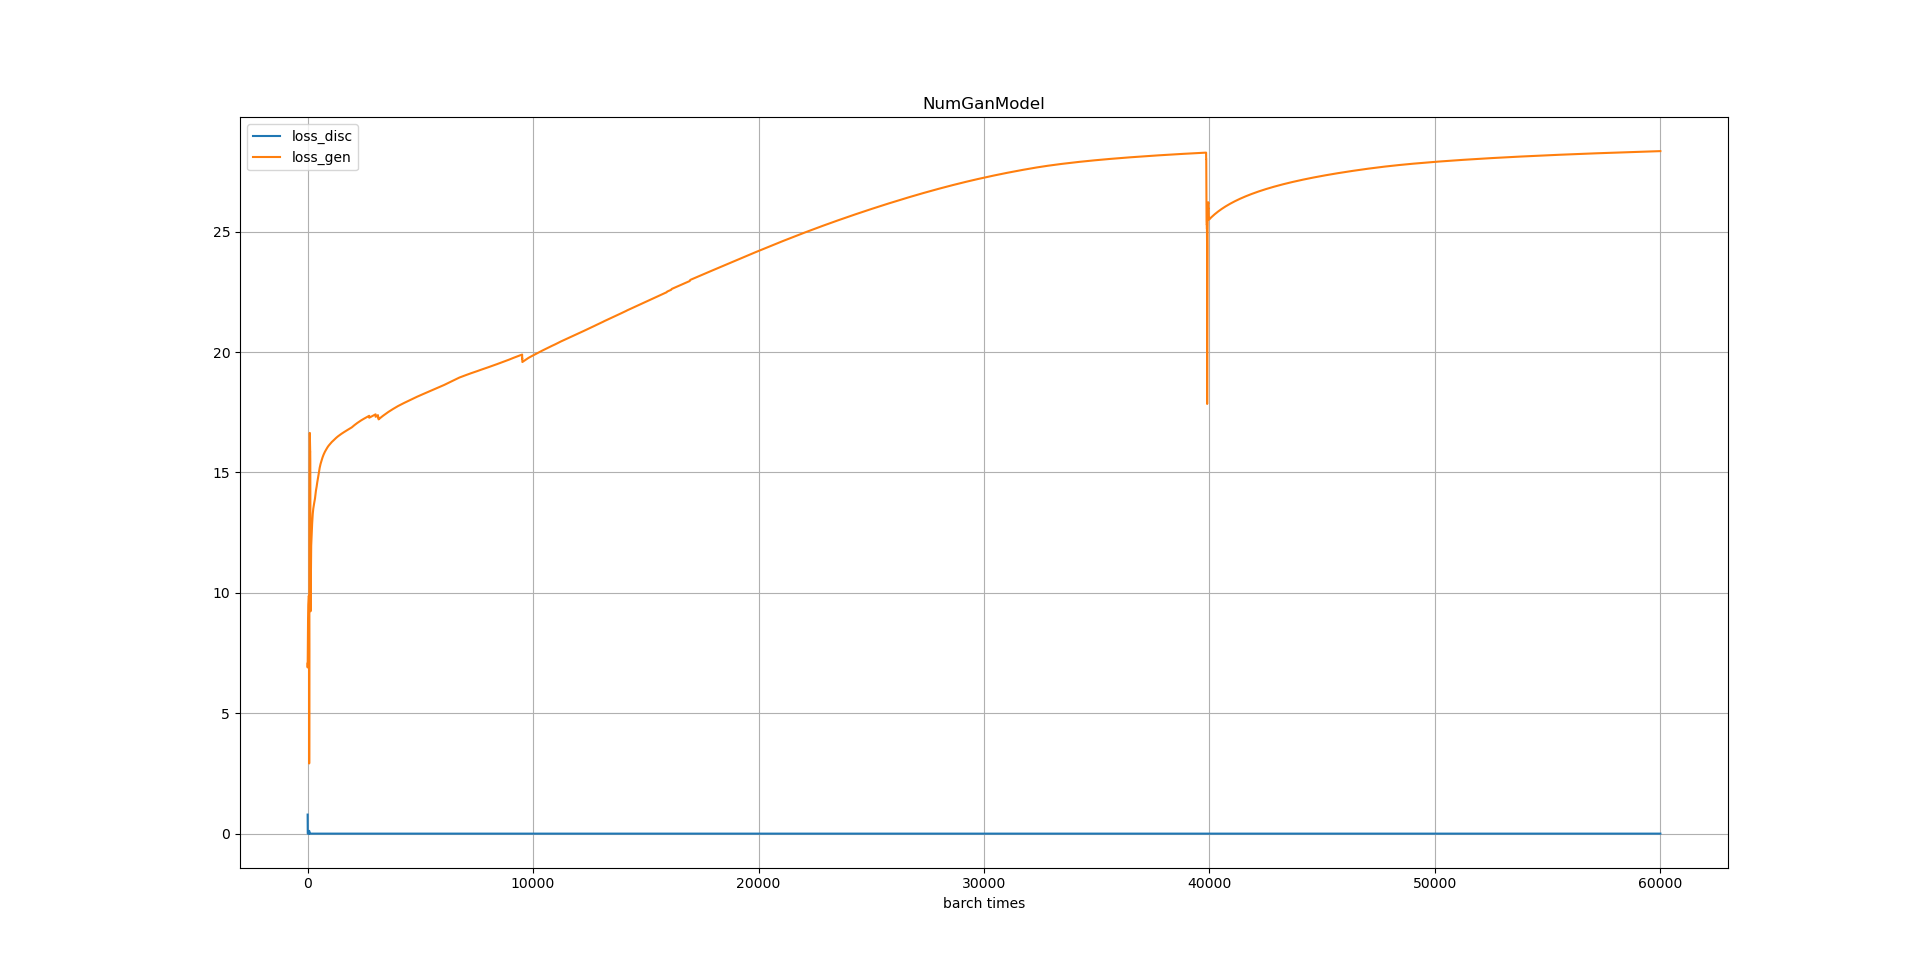
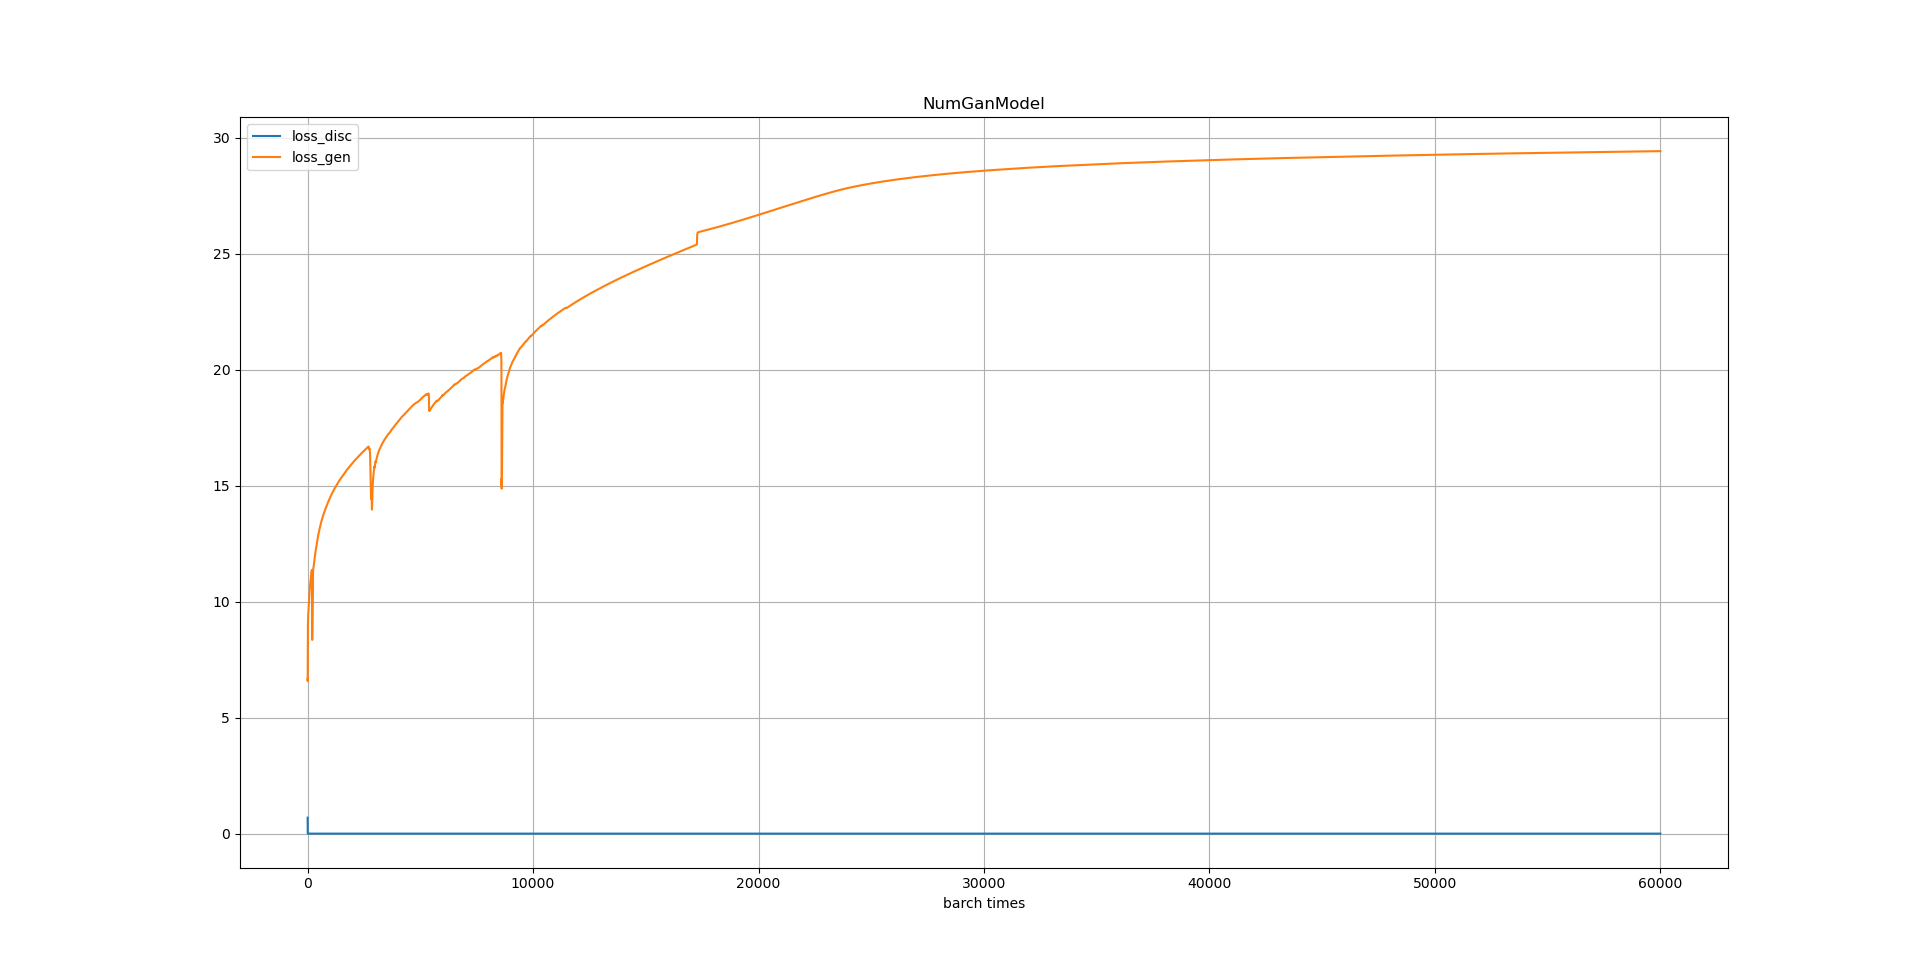
优化3

diff --git a/AI-Stu/03-GenerativeAdversarialNetwork/handwrite_number_gen1/NumGanModel3.py b/AI-Stu/03-GenerativeAdversarialNetwork/handwrite_number_gen1/NumGanModel3.py
@@ -1,0 +1,41 @@
+import torch
+
+from NumGanModel2 import NumGanModel2
+
+
+class NumGanModel3(NumGanModel2):
+
+    def TrainEpoch(self, train_iter):
+        self.DiscModel.train()
+        self.GenModel.train()
+        for imgs, tags in train_iter:
+            tags = tags.to(device='cuda', dtype=torch.float)
+            imgs = imgs.to(device='cuda', dtype=torch.float)
+            # 掺杂生成器数据
+            g_tag_seed = torch.randn(tags.size(0), 1).to(device='cuda', dtype=torch.float)
+            g_imgs = self.GenModel(g_tag_seed).detach()
+            g_imgs = g_imgs.view(g_imgs.size(0), 1, 28, 28)
+            g_tags = torch.full((g_tag_seed.size(0),), 0, dtype=torch.float, device='cuda')
+            tags_all = torch.cat((tags, g_tags), dim=0)
+            imgs_all = torch.cat((imgs, g_imgs), dim=0)
+            # 训练判别器
+            tags_hat = self.DiscModel(imgs_all).squeeze()
+            loss_disc = self.DiscLoss(tags_hat, tags_all)
+            self.DiscOptimiser.zero_grad()
+            loss_disc.backward()
+            self.DiscOptimiser.step()
+            # 训练生成器
+            g_trian_tag_seed = torch.randn(tags_all.size(0), 1).to(device='cuda', dtype=torch.float)
+            g_train_imgs = self.GenModel(g_trian_tag_seed)
+            # 使用生成器生成的图片欺骗鉴别器
+            # 如果g_train_tags全1说明欺骗成功（奖励）
+            # 如果g_train_tags全0说明欺骗失败（惩罚）
+            g_train_tags = self.DiscModel(g_train_imgs)
+            g_train_tags_std = torch.full((g_trian_tag_seed.size(0), 1), 1, dtype=torch.float).to(device='cuda',
+                                                                                                  dtype=torch.float)
+            # loss_gen越小，说明g_train_tags越接近全1，生成器越成功
+            loss_gen = self.DiscLoss(g_train_tags, g_train_tags_std)
+            self.GenOptimiser.zero_grad()
+            loss_gen.backward()
+            self.GenOptimiser.step()
+            self.record[len(self.record)] = [loss_disc.item(), loss_gen.item()]

diff --git a/AI-Stu/03-GenerativeAdversarialNetwork/handwrite_number_gen1/NumGanModelTrain1.py b/AI-Stu/03-GenerativeAdversarialNetwork/handwrite_number_gen1/NumGanModelTrain1.py
@@ -5,7 +5,7 @@ from torch.utils.data import DataLoader
 from NumDataSet import NumDataSet
 import torchvision.transforms as transforms
 
-from NumGanModel2 import NumGanModel2
+from NumGanModel3 import NumGanModel3
 
 # 定义数据变换
 transform = transforms.Compose([
@@ -18,14 +18,14 @@ true_dataset = NumDataSet(root='./data', train=True, download=True, transform=tr
 true_dataloader = DataLoader(true_dataset, batch_size=1, shuffle=True)
 
 # 训练轮次，数据集上全部训练一遍为一轮
-Gan = NumGanModel2()
-train_times = 1
+Gan = NumGanModel3()
+train_times = 3
 Gan.TrainModel(train_times, true_dataloader)
 
 Gan.GenModel.eval()
 with torch.no_grad():
     gen_size = 50
-    g_seed = torch.rand(gen_size, 1).to(device='cuda', dtype=torch.float)
+    g_seed = torch.randn(gen_size, 1).to(device='cuda', dtype=torch.float)
     gen_img = Gan.GenModel(g_seed)
     # 设置子图的行列数
     num_cols = 10  # 列

diff --git a/AI-Stu/03-GenerativeAdversarialNetwork/handwrite_number_gen1/NumGanModel.py b/AI-Stu/03-GenerativeAdversarialNetwork/handwrite_number_gen1/NumGanModel.py
@@ -80,5 +80,5 @@ class NumGanModel(nn.Module):
             loss_gen = self.DiscLoss(g_train_tags, g_train_tags_std)
             self.GenOptimiser.zero_grad()
             loss_gen.backward()
-            self.record[len(self.record)] = [loss_disc.item(), loss_gen.item()]
             self.GenOptimiser.step()
+            self.record[len(self.record)] = [loss_disc.item(), loss_gen.item()]
